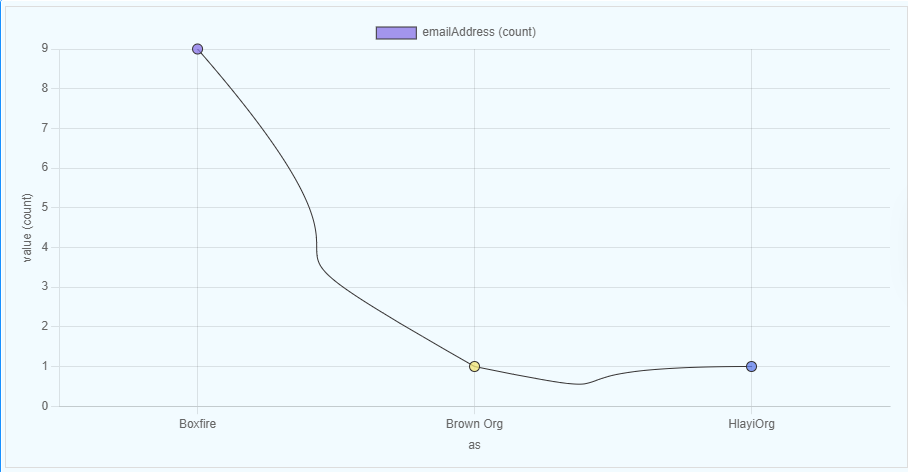
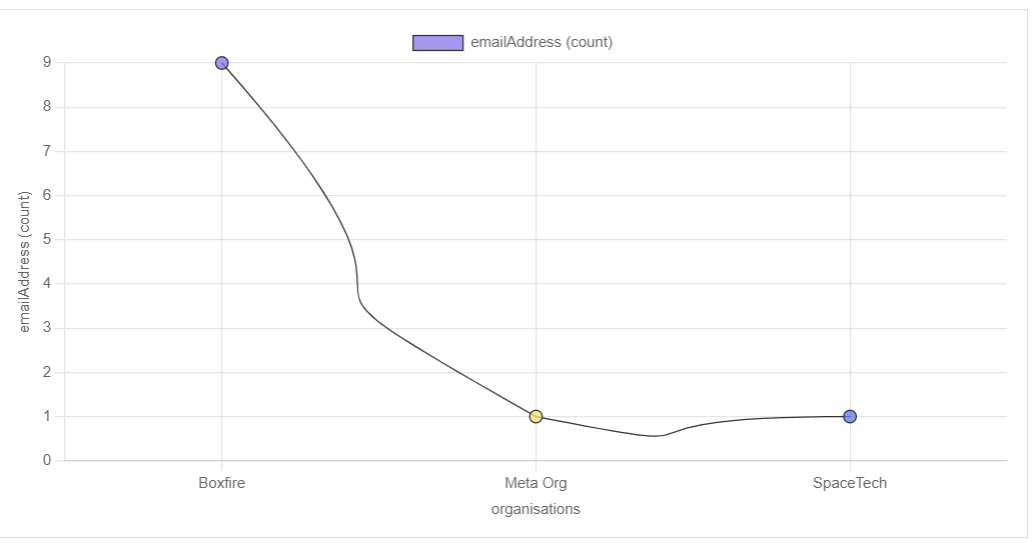
chore: Updates

diff --git a/docs/how-to-guides/chart.md b/docs/how-to-guides/chart.md
@@ -143,24 +143,18 @@ If you want to prepare your own data for the chart from your own service, you ne
 Example  
 
 ```json
-  {
-  result: {
-    labels: ["January", "February", "March", "April", "May", "June", "July"],
-    dataset: [
+{
+  "result": {
+    "labels": ["Jan", "Feb", "Mar", "Apr", "May", "Jun", "Jul", "Aug", "Sep", "Oct", "Nov", "Dec", "Jan"],
+    "datasets": [
       {
-        label: "Sales",
-        data: [65, 59, 80, 81, 56, 55, 40],
-        backgroundColor: [
-          "rgba(255, 99, 132, 0.2)", 
-          "rgba(54, 162, 235, 0.2)", 
-          "rgba(255, 206, 86, 0.2)", 
-          "rgba(75, 192, 192, 0.2)", 
-          "rgba(153, 102, 255, 0.2)", 
-          "rgba(255, 159, 64, 0.2)", 
-          "rgba(99, 255, 132, 0.2)"
+        "label": "sales (count)",
+        "data": [560, 500, 600, 700, 800, 900, 1000, 1100, 1200, 1300, 1400, 1500],     "backgroundColor": [
+          "hsla(250.84687042236328, 70.84687042236328%, 67.84687042236328%, 0.75)",
+          "hsla(53.773223876953125, 83.77322387695312%, 70.77322387695312%, 0.75)",
+          "hsla(227.58676147460938, 77.58676147460938%, 64.58676147460938%, 0.75)"
         ],
-        borderColor: "rgba(255, 99, 132, 1)"       ],
-        borderWidth: 1
+        "borderColor": "black"
       }
     ]
   }
@@ -176,7 +170,7 @@ A ASP.Net Core action can look like this:
       {
           return new
           {
-              labels = new[] { "Boxfire", "Brown Org", "HlayiOrg" },
+              labels = new[] { "Boxfire", "Meta Org", "SpaceTech" },
               datasets = new[]
               {
                   new
@@ -198,8 +192,8 @@ A ASP.Net Core action can look like this:
 ![Line Chart 1](images/chart/image-6.png)  
 **Line Chart (Simple)**
 
-![settings 1a](images/chart/image-7.png)
-![settings 1b](images/chart/image-8.png)  
+![settings 1a](images/chart/image-7.png)  
+![settings 1b](images/chart/image-8.png)
 **Settings for Line Chart (Simple)**
 
 ### Line Chart 2
@@ -207,7 +201,7 @@ A ASP.Net Core action can look like this:
 ![Line Chart 2](images/chart/image-9.png)  
 **Line Chart (Pivot)**
 
-![settings 2a](images/chart/image-10.png)
+![settings 2a](images/chart/image-10.png)  
 ![settings 2b](images/chart/image-11.png)  
 **Settings for Line Chart (Pivot)**
 
@@ -216,7 +210,7 @@ A ASP.Net Core action can look like this:
 ![Bar Chart 3](images/chart/image-12.png)  
 **Bar Chart (Pivot)**
 
-![settings 3a](images/chart/image-13.png)
+![settings 3a](images/chart/image-13.png)  
 ![settings 3b](images/chart/image-14.png)  
 **Settings for Bar Chart (Pivot)**
 
@@ -225,7 +219,7 @@ A ASP.Net Core action can look like this:
 ![Line Chart 4](images/chart/image-15.png)  
 **Line Chart (Pivot)**
 
-![settings 4a](images/chart/image-16.png)
+![settings 4a](images/chart/image-16.png)  
 ![settings 4b](images/chart/image-17.png)  
 **Settings for Line Chart (Pivot)**
 
@@ -234,6 +228,6 @@ A ASP.Net Core action can look like this:
 ![Pie Chart 5](images/chart/image-18.png)  
 **Simnle Pie Chart**
 
-![settings 5a](images/chart/image-19.png)
+![settings 5a](images/chart/image-19.png)  
 ![settings 5b](images/chart/image-20.png)  
 **Settings for Pie Chart**
